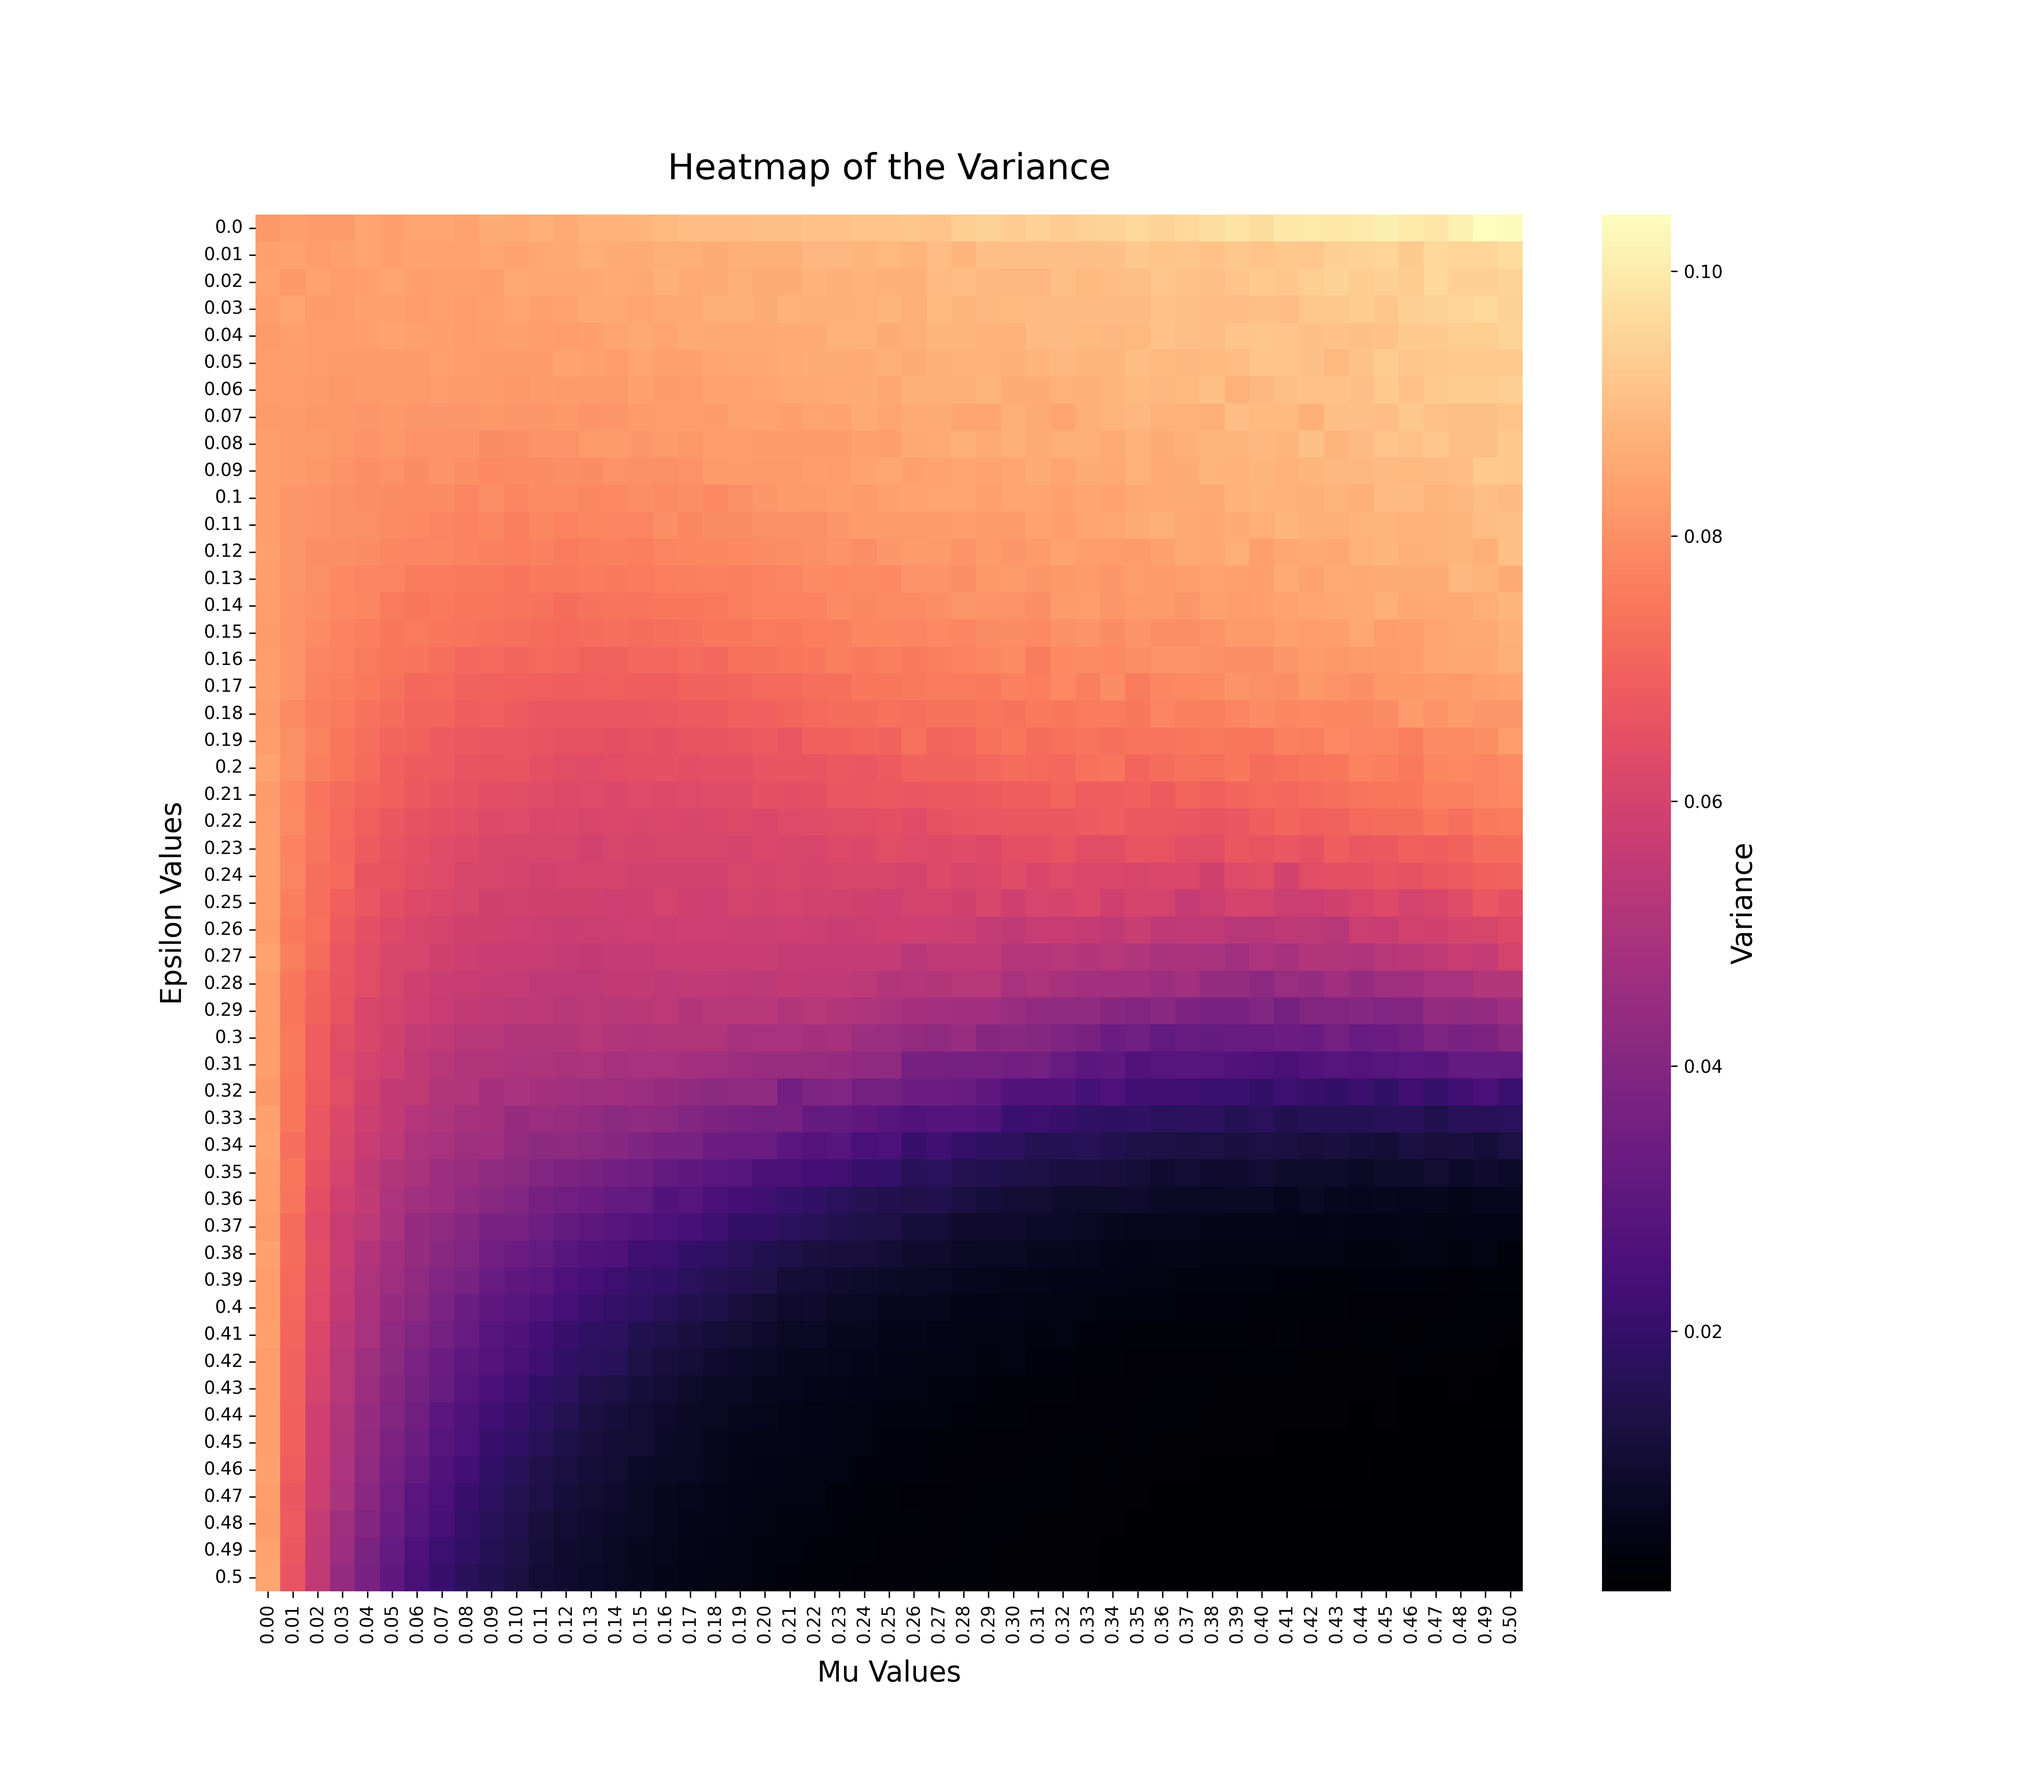
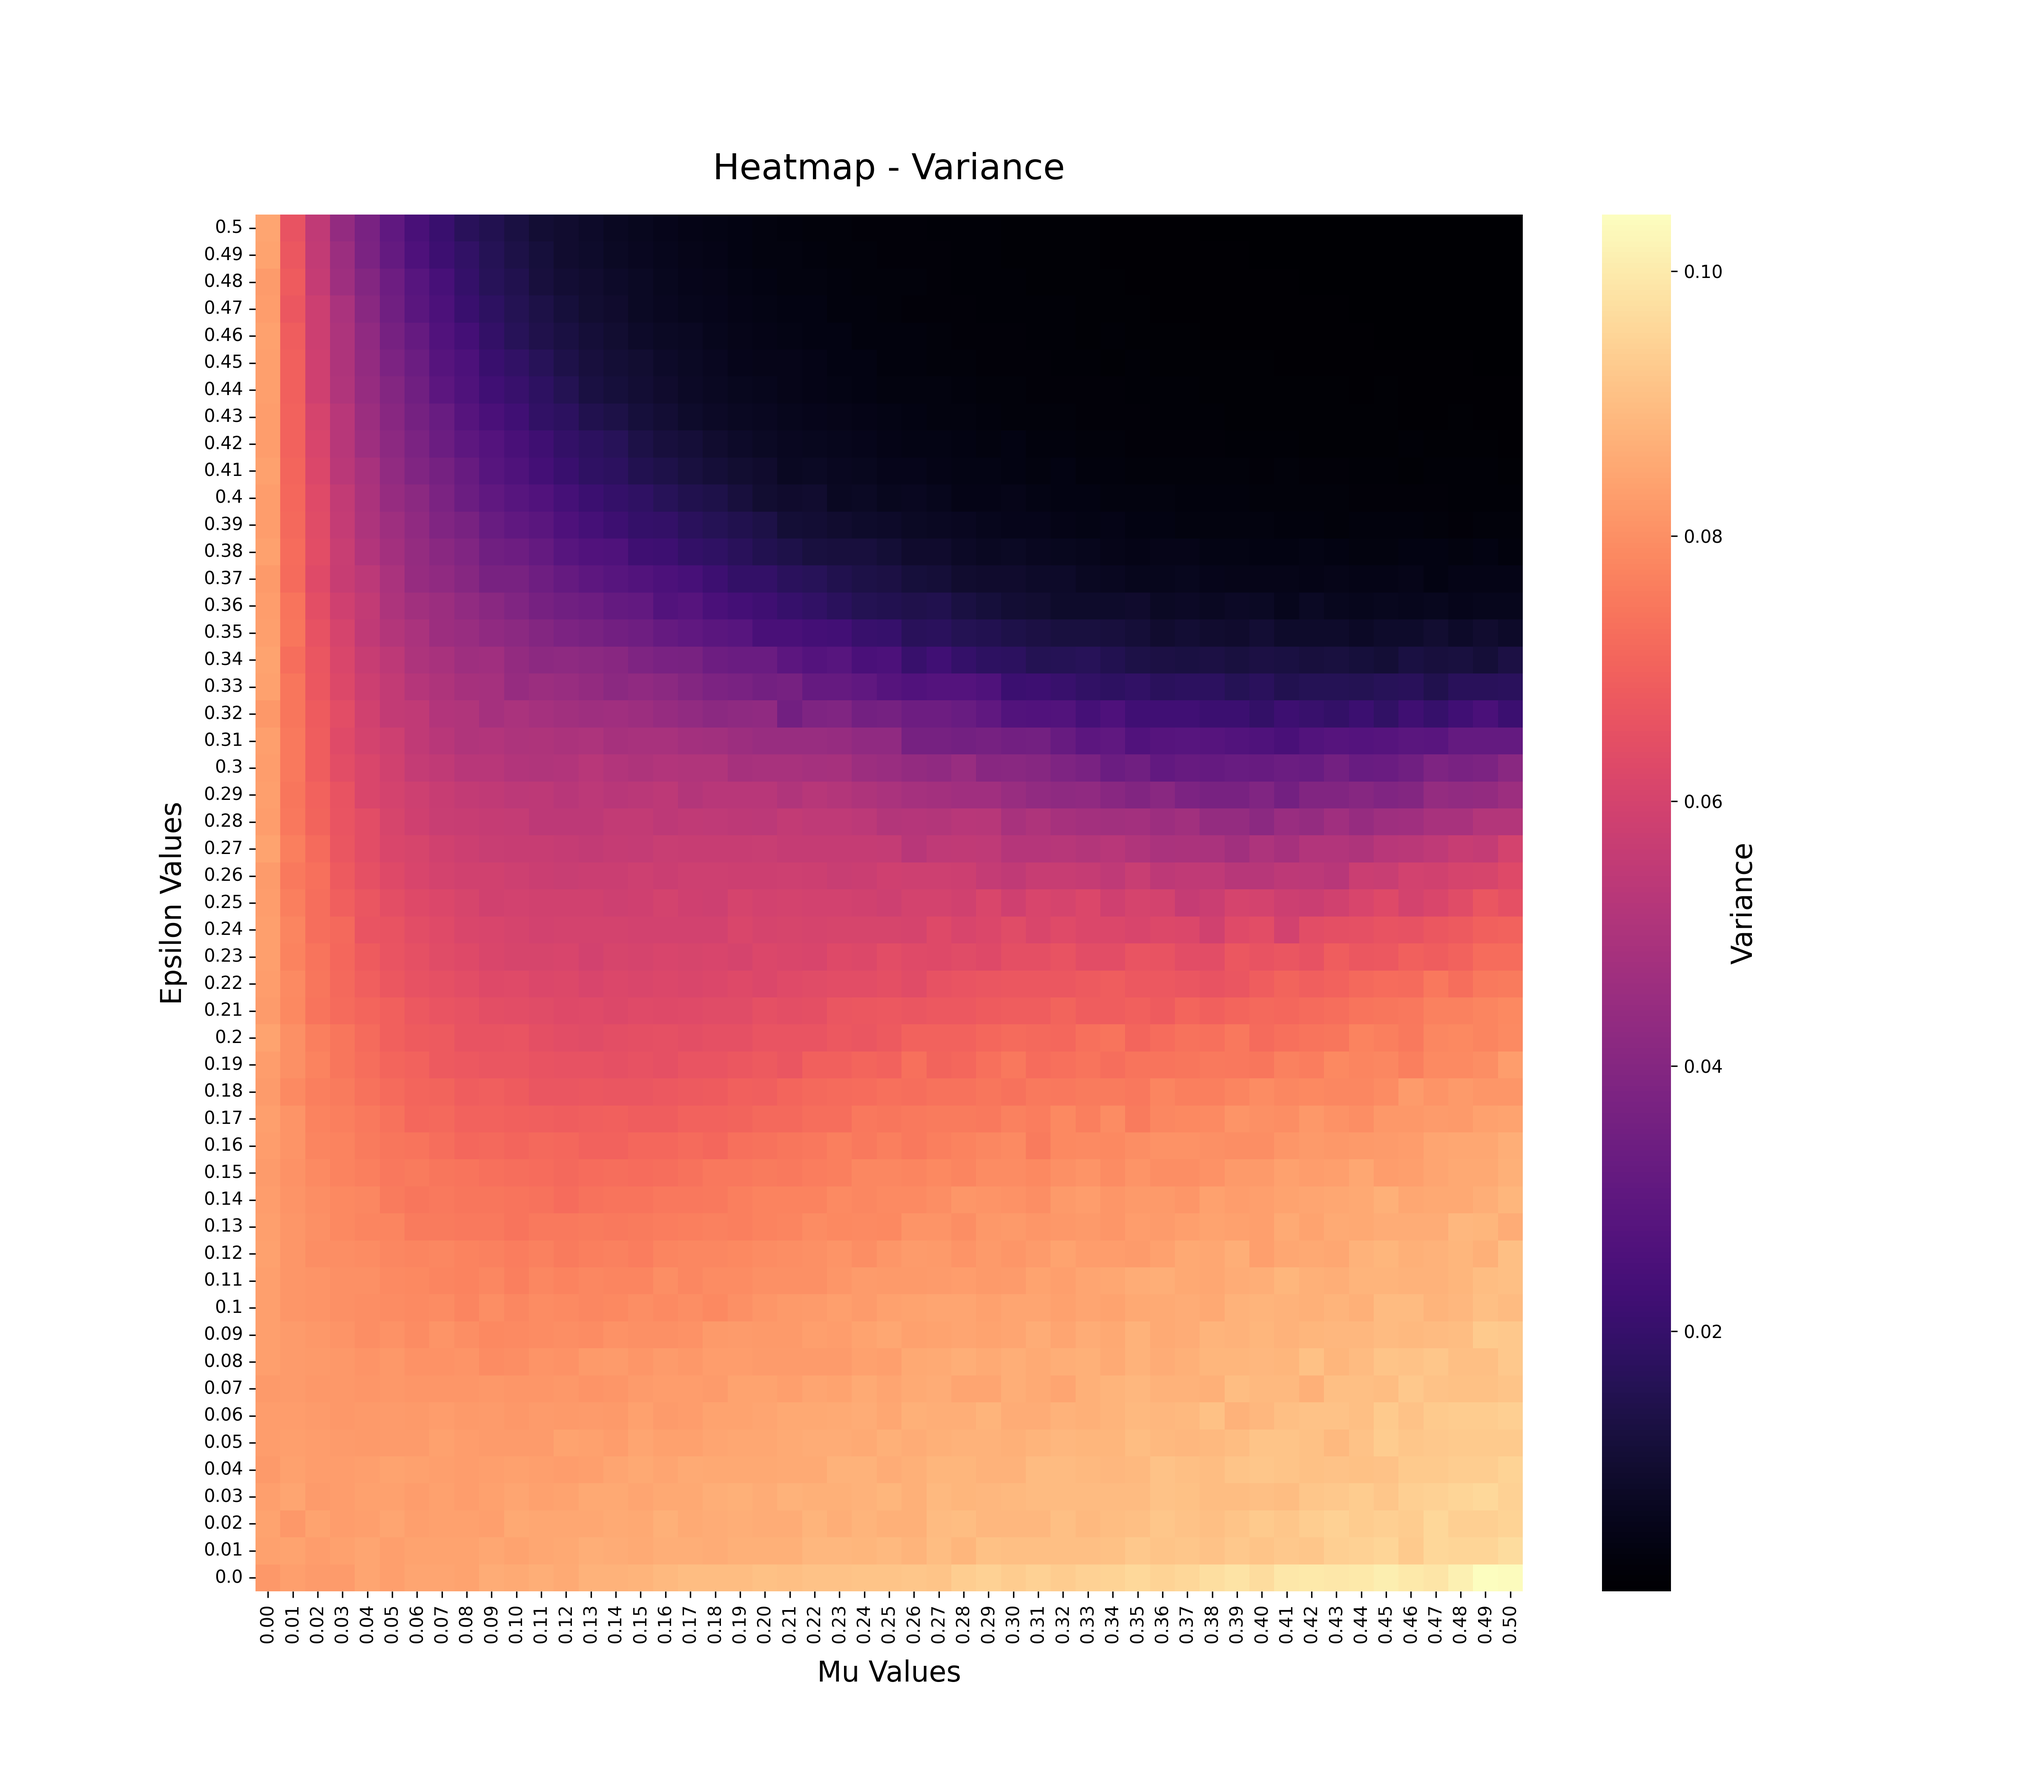
Corrected version of heatmap function - to make the image comparable with the one in the paper

diff --git a/Plotting heatmap.py b/Plotting heatmap.py
@@ -2,29 +2,34 @@ import pandas as pd
 import seaborn as sns
 import matplotlib.pyplot as plt
 
-def plot_heatmap(file_path, image_title):
+def plot_heatmap(file_path, image_title, parameter, reverse_columns = True):
     """
     Function to generate a heatmap from a CSV file and save it as an image.
     
     Args:
         file_path (str) : Path to the CSV file containing the data.
-        image_title (str) : Desired title of the generated image. 
+        image_title (str) : Desired title of the generated image.
+        parameter (str) : What is the parameter varied in the matrix. This is also a title for the legend on the right-hand side of the heatmap. 
+        reverse_columns (bool) : If True the order of columns are reversed to make the plot look like the the plot in the paper. 
     """
     # Load data from the CSV file
     data = pd.read_csv(file_path, index_col=0)
+    if reverse_columns == True:
+        reversed_data = data.iloc[::-1]
 
     # Plot a heatmap
     plt.figure(figsize=(16, 14)) 
-    fig = sns.heatmap(data, annot=False, cmap='magma', cbar_kws={'label': 'Variance'})
+    fig = sns.heatmap(reversed_data, annot=False, cmap='magma', cbar_kws={'label': parameter})
 
     
     plt.title(image_title, fontsize=20, pad=20)
     plt.xlabel('Mu Values', labelpad = 9, fontsize=16)
     plt.ylabel('Epsilon Values', labelpad = 9, fontsize=16)
     cbar = fig.collections[0].colorbar
-    cbar.set_label('Variance', fontsize=16)
+    cbar.set_label(parameter, fontsize=16)
     
     # Save the heatmap
-    plt.savefig("heatmap.png", dpi=300)
+    plt.savefig(image_title, dpi=300)
 
     print(f"Heatmap saved")
+
